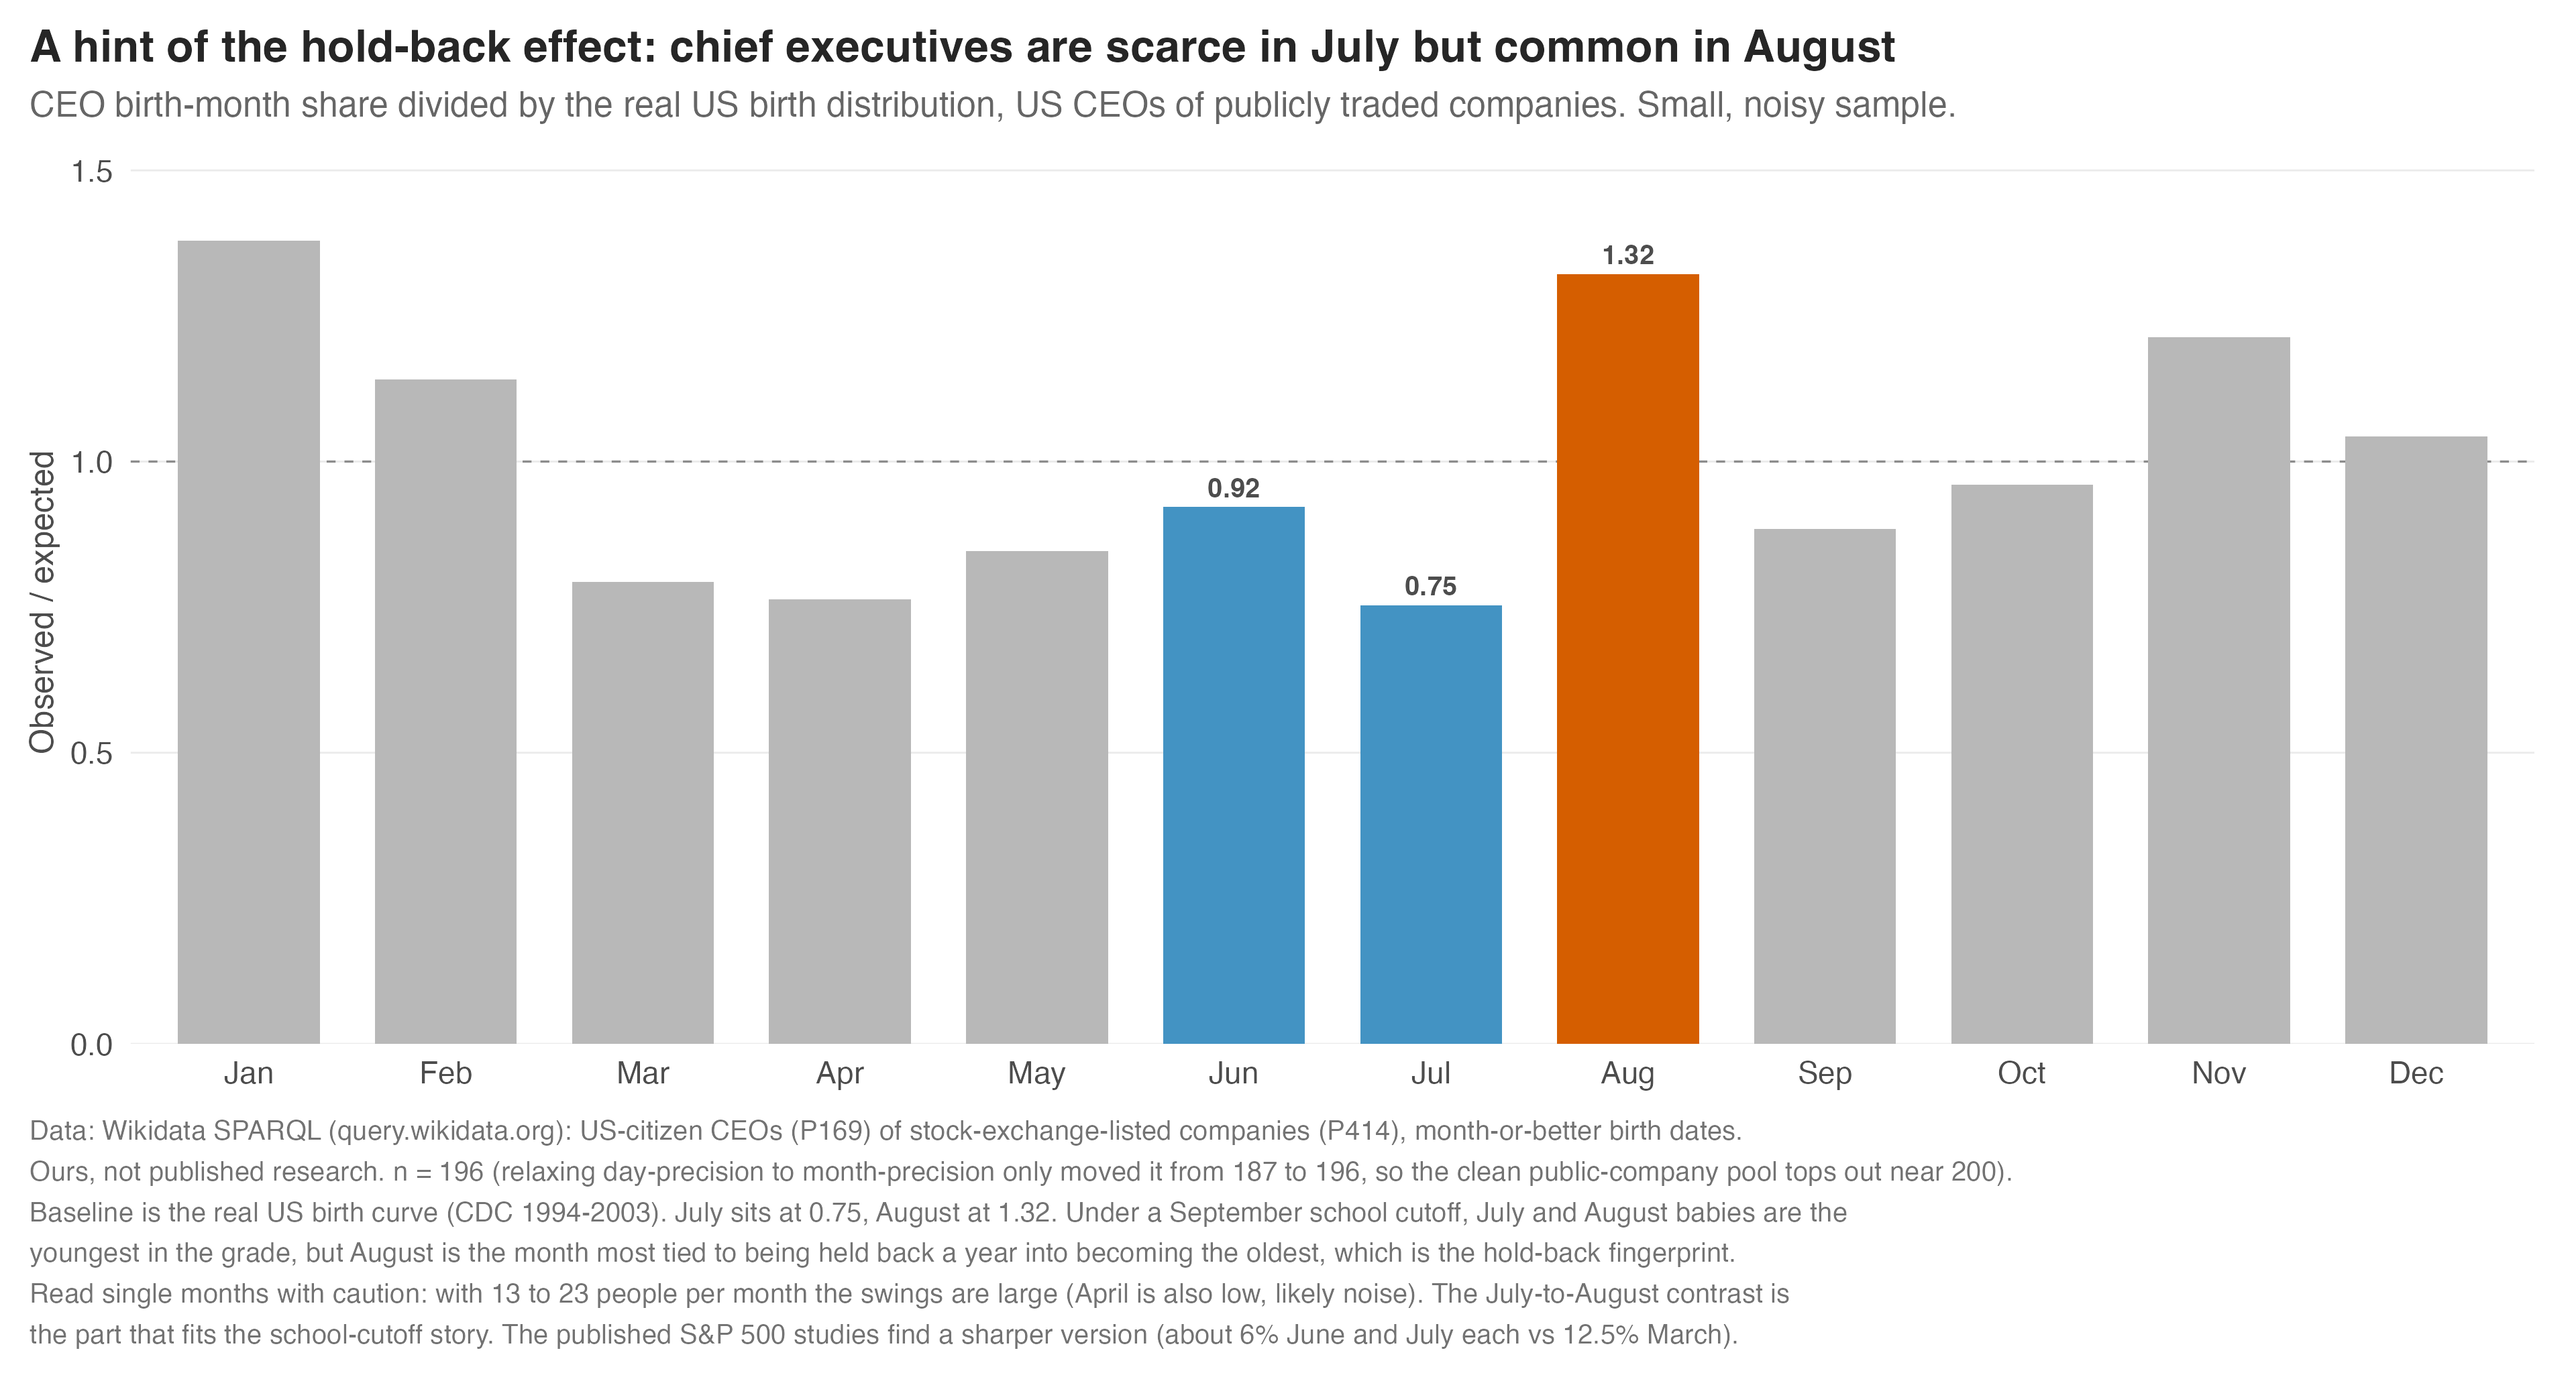
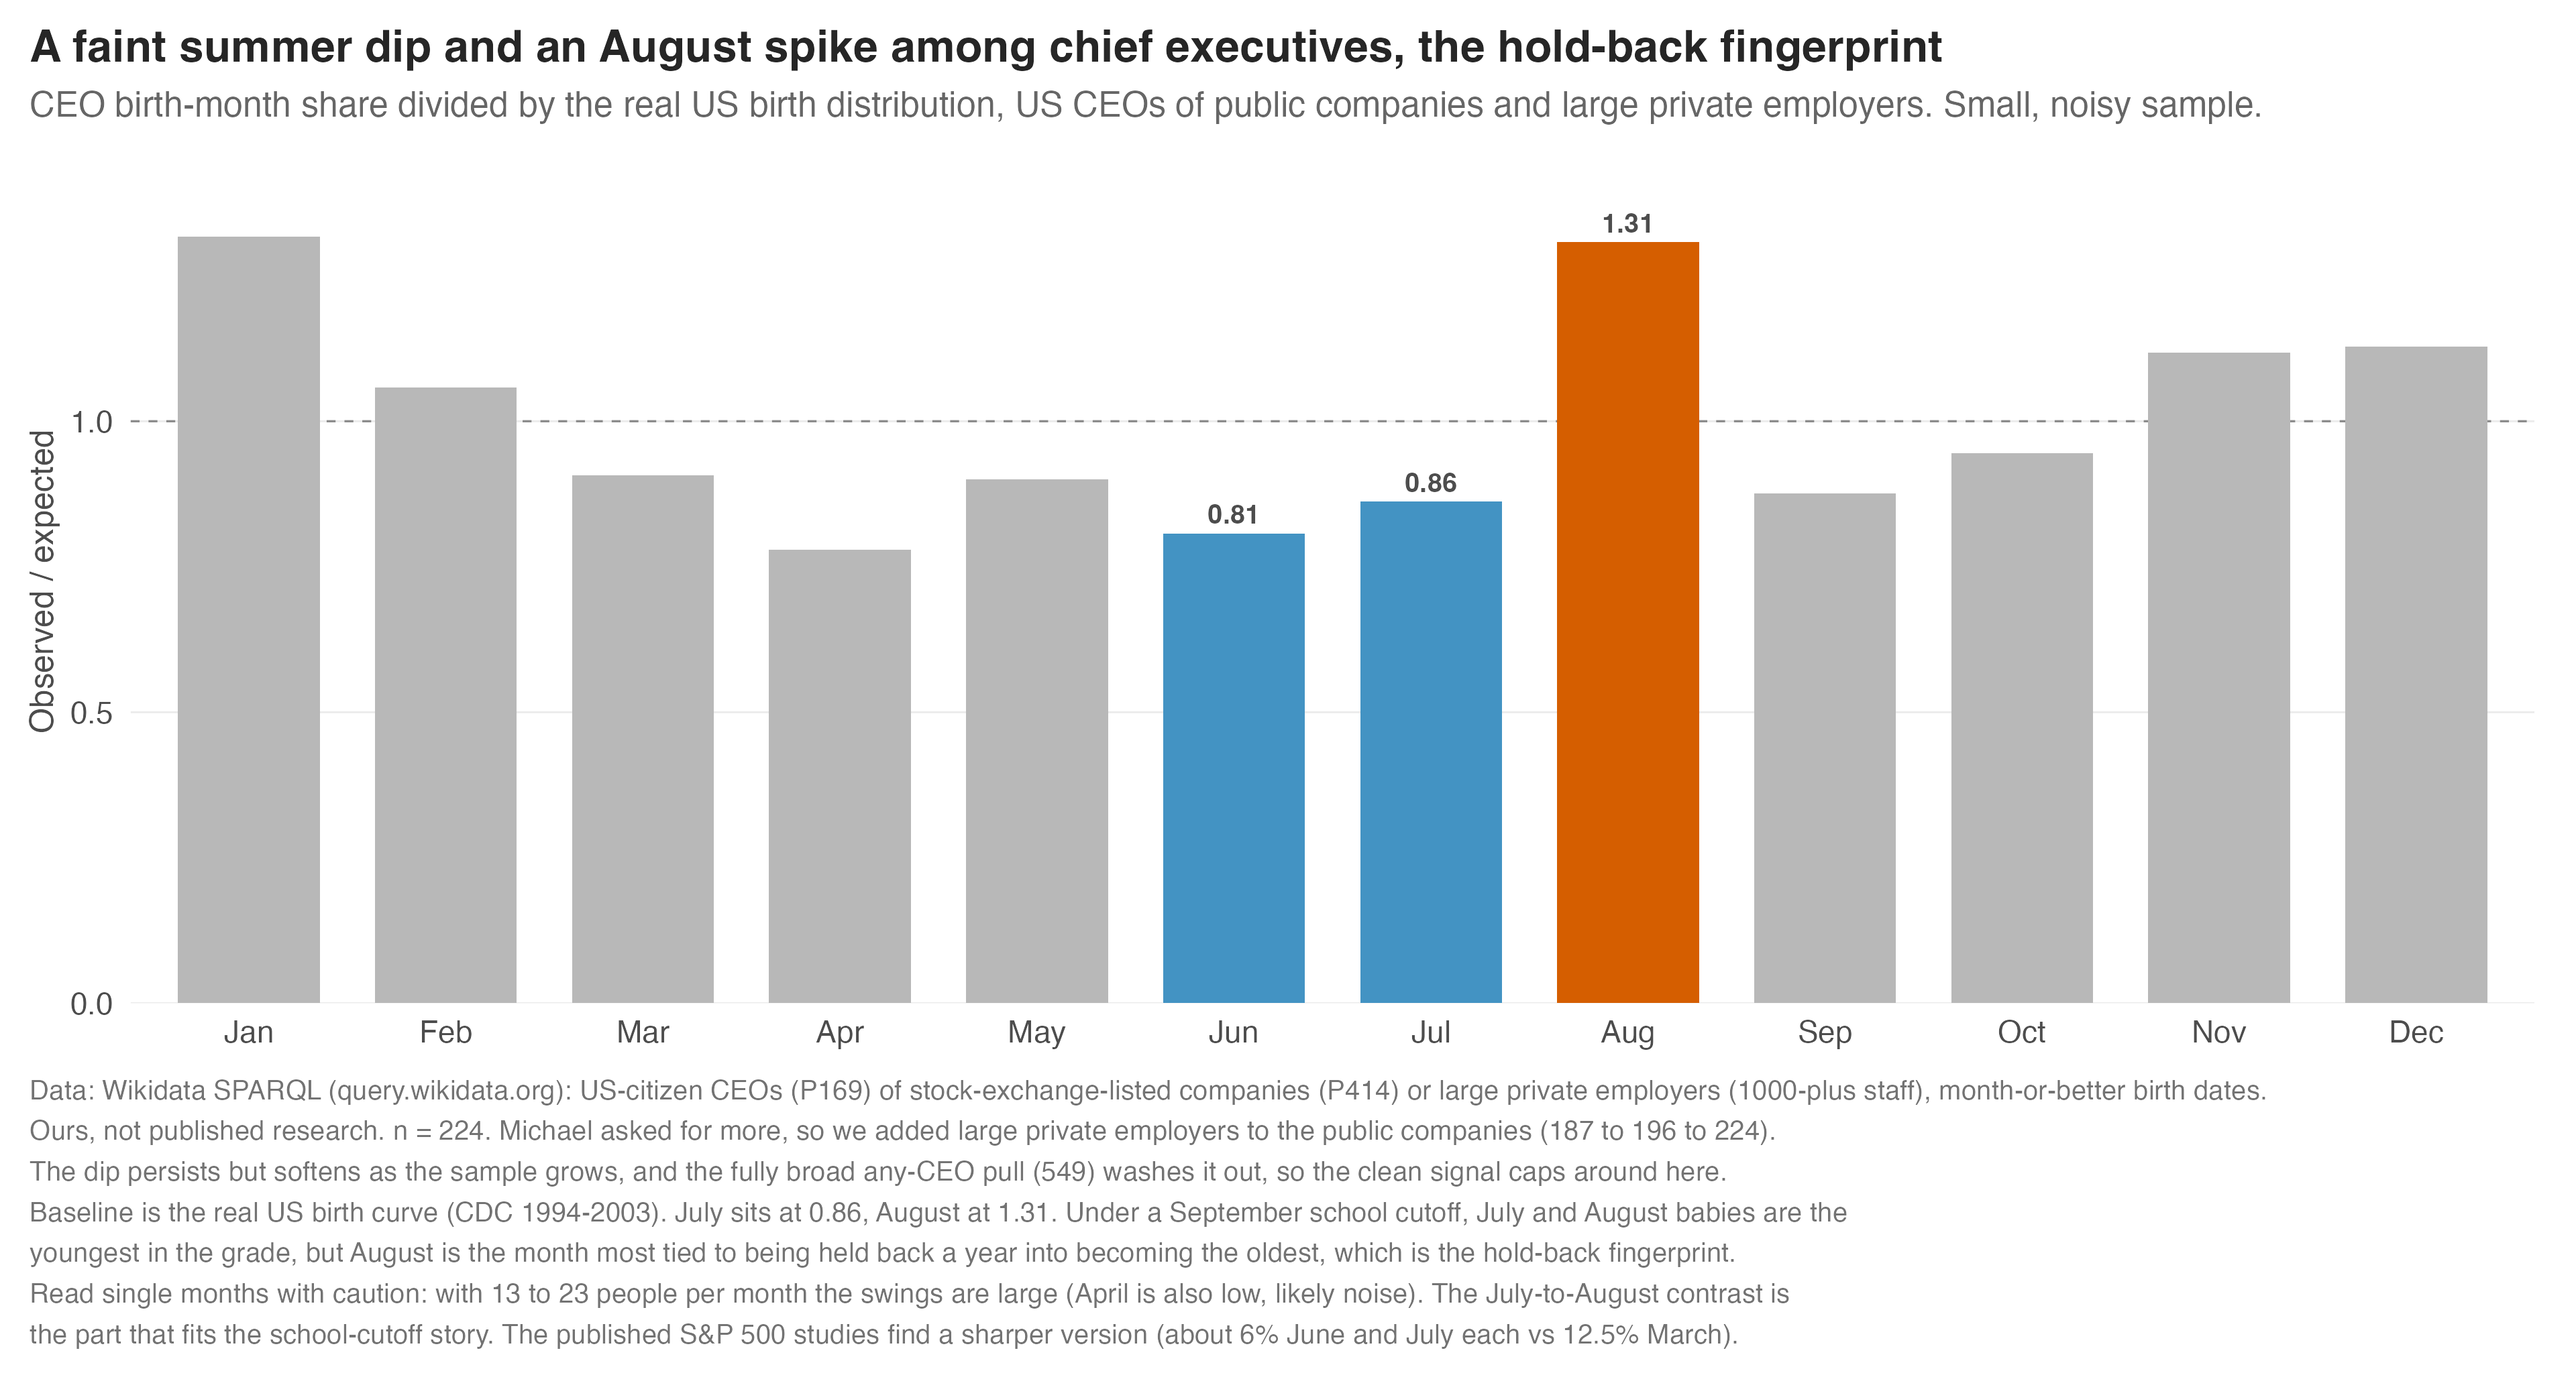
feat: push CEO sample to 224 (Michael asked again)
Added large private employers (P1128>=1000 staff) to the public-company (P414)
CEO pull: 187 -> 196 -> 224 (ceo_birthdates_v2.csv). Summer-below/August-above
pattern holds but softens (July 0.75 -> 0.86); the fully broad any-CEO pull (549)
washes it out, so ~200-224 is the ceiling and the effect is sample-sensitive.
Honest title/caption update; CEO + August cards updated with the new numbers.

Claude-Session: https://claude.ai/code/session_01RYr7QykH5RmY1tzkRQT4SW

diff --git a/docs/birthday-advantage.html b/docs/birthday-advantage.html
@@ -372,19 +372,19 @@
       <p class="xref">Ties together: the whole piece. Pairs with the Underdog reversal. Built by R/31.</p>
     </div>
     <div class="card">
-      <div class="card-head"><span class="t">Expand the CEO sample</span><span class="pill ship">Tried, hit a ceiling</span></div>
-      <p class="row"><span class="lab">Michael:</span> only 187 CEOs, can we get more? Past CEOs are fine.</p>
-      <p class="row found"><span class="lab">Found:</span> not much more without wrecking it. Relaxing the birth-date rule from day-precision to month-precision only moved it from 187 to 196, so the clean pool of US public-company CEOs on Wikidata tops out near 200. The earlier no-filter pull (476) washed the effect out entirely, so we hold the line and lean on the published S&P 500 result for the big-sample version. The real upgrade below is the real-birth baseline plus the August story.</p>
+      <div class="card-head"><span class="t">Expand the CEO sample</span><span class="pill ship">Pushed to 224, still caps</span></div>
+      <p class="row"><span class="lab">Michael:</span> only 187 CEOs, can we get more? Past CEOs are fine. (Asked again: did you add anything?)</p>
+      <p class="row found"><span class="lab">Found, and pushed again when he asked twice:</span> relaxing the birth-date rule from day to month precision moved it from 187 to 196 public-company CEOs, and adding large private employers (1000-plus staff) brings it to 224. The summer-below, August-above pattern holds but softens as the sample grows, with July drifting from 0.75 up to 0.86. The fully broad any-CEO pull (549) washes the effect out entirely. So the clean pool caps around 200 to 224, and the effect is small and sample-sensitive, which is exactly why we lean on the published S&P 500 studies for the robust version.</p>
       <figure>
-        <img src="figures/ba_ceo_expanded.png" alt="Bar chart of CEO birth months against the real US birth distribution. July is low at 0.75 and August is high at 1.32, both highlighted; the other months hover near the expected line.">
-        <figcaption>CEO birth months vs the real US birth curve, n = 196. July scarce, August common, the hold-back fingerprint. Ours, small and noisy sample.</figcaption>
+        <img src="figures/ba_ceo_expanded.png" alt="Bar chart of CEO birth months against the real US birth distribution, n=224. June and July sit below the line (0.81 and 0.86), August is high at 1.31; the July and August months are highlighted.">
+        <figcaption>CEO birth months vs the real US birth curve, n = 224. Summer months below the line, August above. Ours, small and noisy sample.</figcaption>
       </figure>
       <p class="xref">Feeds: Act Three CEO chart. Related: birth order, August hold-back. Built by R/41.</p>
     </div>
     <div class="card">
       <div class="card-head"><span class="t">The August hold-back wrinkle</span><span class="pill data">Have a lead</span></div>
       <p class="row"><span class="lab">Michael:</span> does the August pattern hold, or is it muddied because so many August babies get held back a year? Very common for August birthdays.</p>
-      <p class="row found"><span class="lab">Found:</span> a real fingerprint of his hunch, charted in the CEO card above. Real US births peak in August, yet chief executives are scarce in July (0.75 of expected) and common in August (1.32). Under a September cutoff, July and August babies are the youngest in the grade, but August is the month most tied to being held back a year into being the oldest. That July-low, August-high split is what the hold-back move would leave behind. Small, noisy sample, so a lead, not a lock.</p>
+      <p class="row found"><span class="lab">Found:</span> a real fingerprint of his hunch, charted in the CEO card above. Real US births peak in August, yet chief executives dip in June and July (0.81 and 0.86 of expected) and spike in August (1.31). Under a September cutoff, July and August babies are the youngest in the grade, but August is the month most tied to being held back a year into being the oldest. That summer-low, August-high split is what the hold-back move would leave behind. Small, noisy sample that softens as it grows, so a lead, not a lock.</p>
       <p class="xref">See the CEO chart above. Bridges Act Two (hold-backs) and Act Three (CEOs).</p>
     </div>
     <div class="card">
